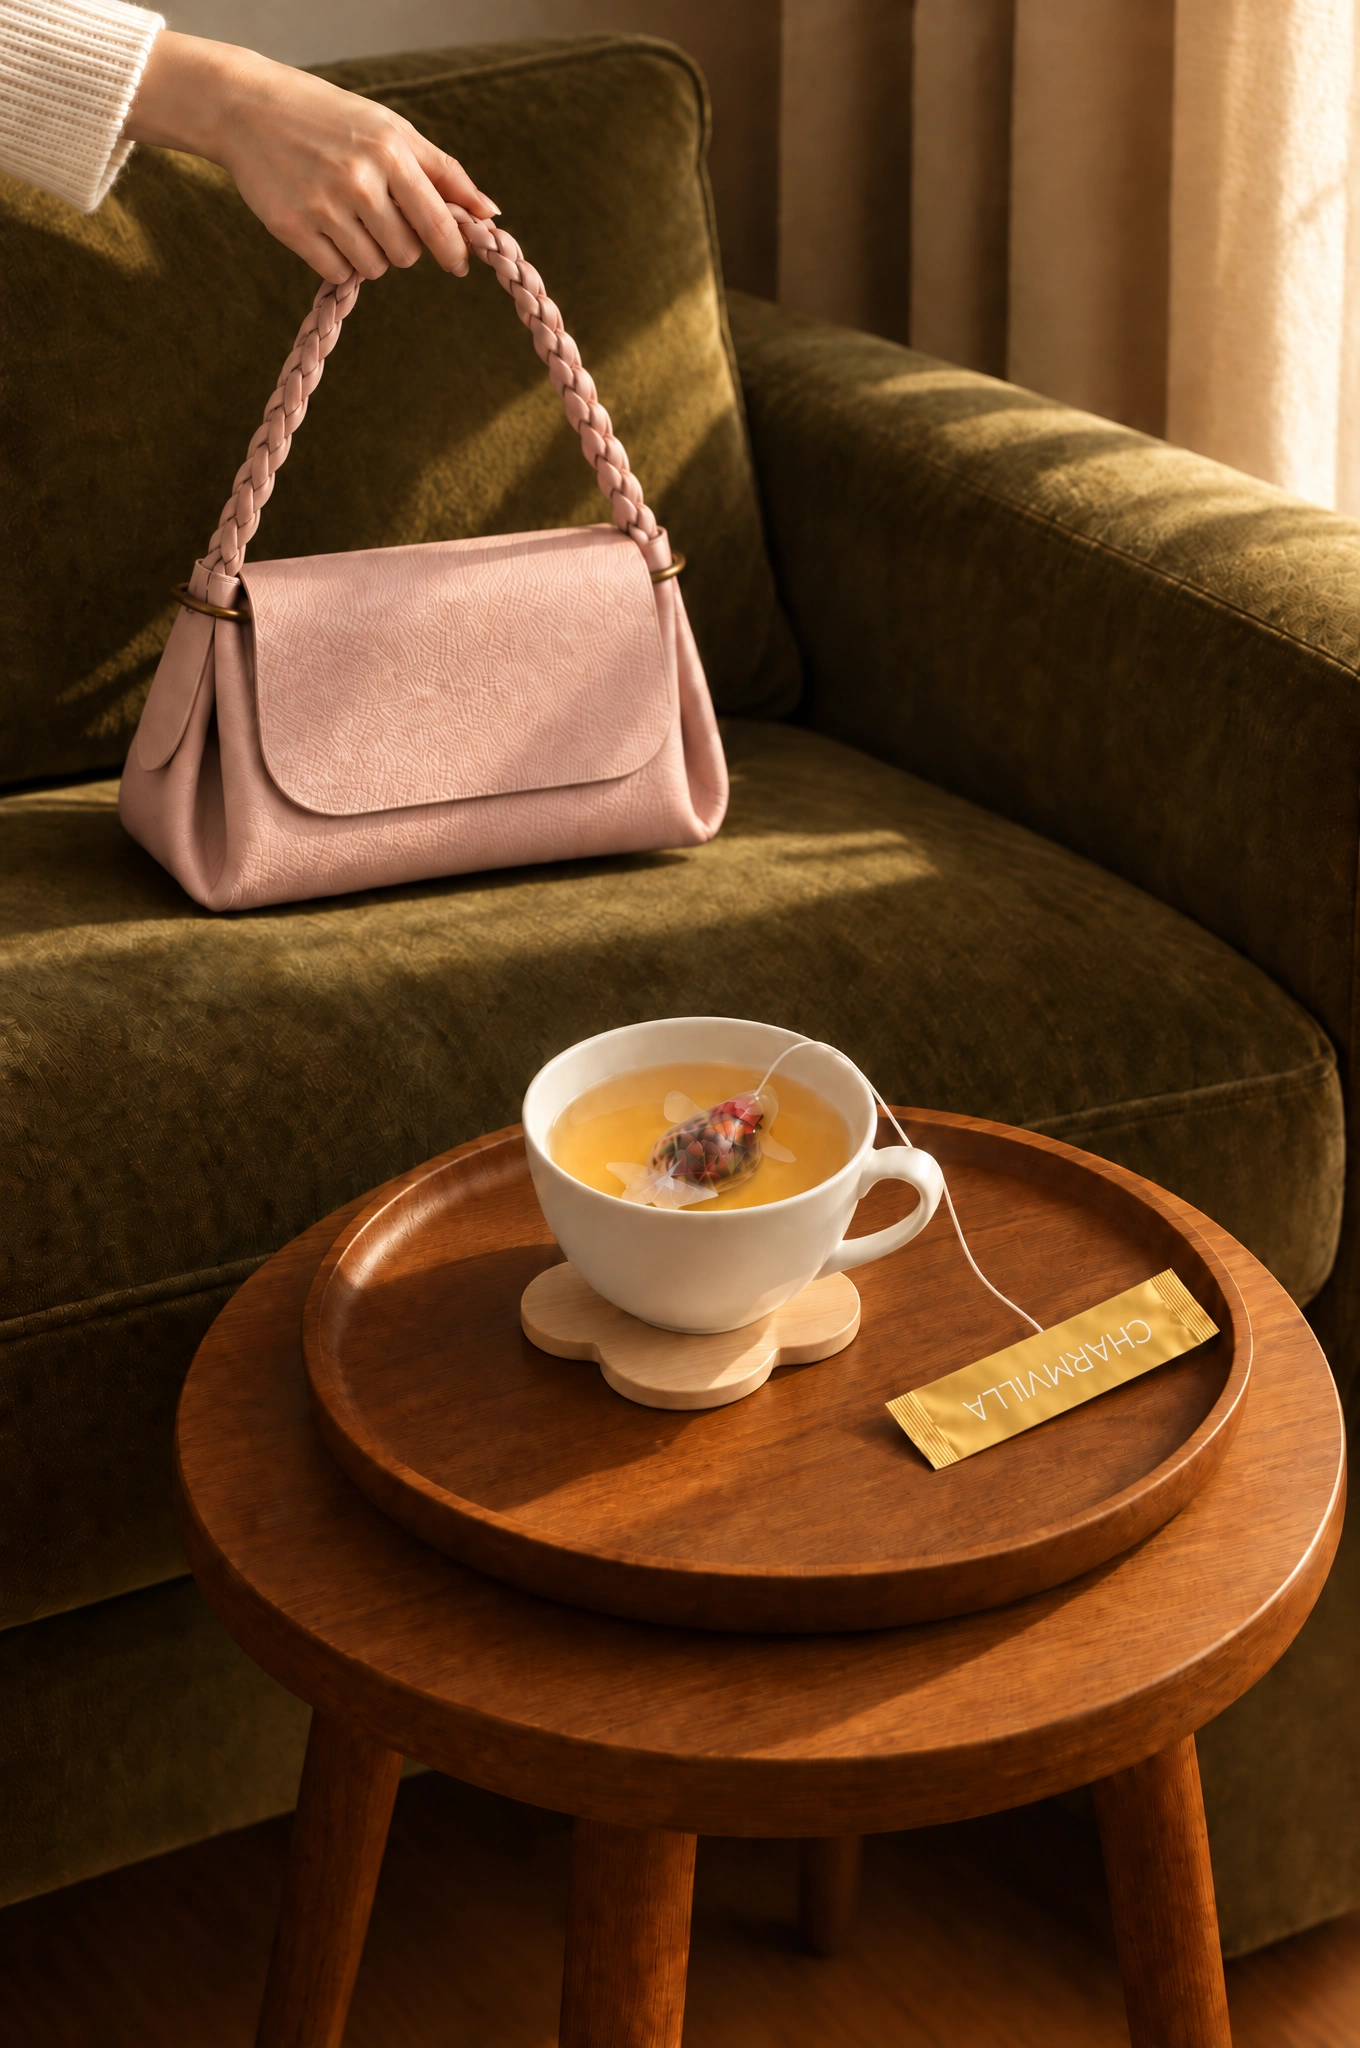
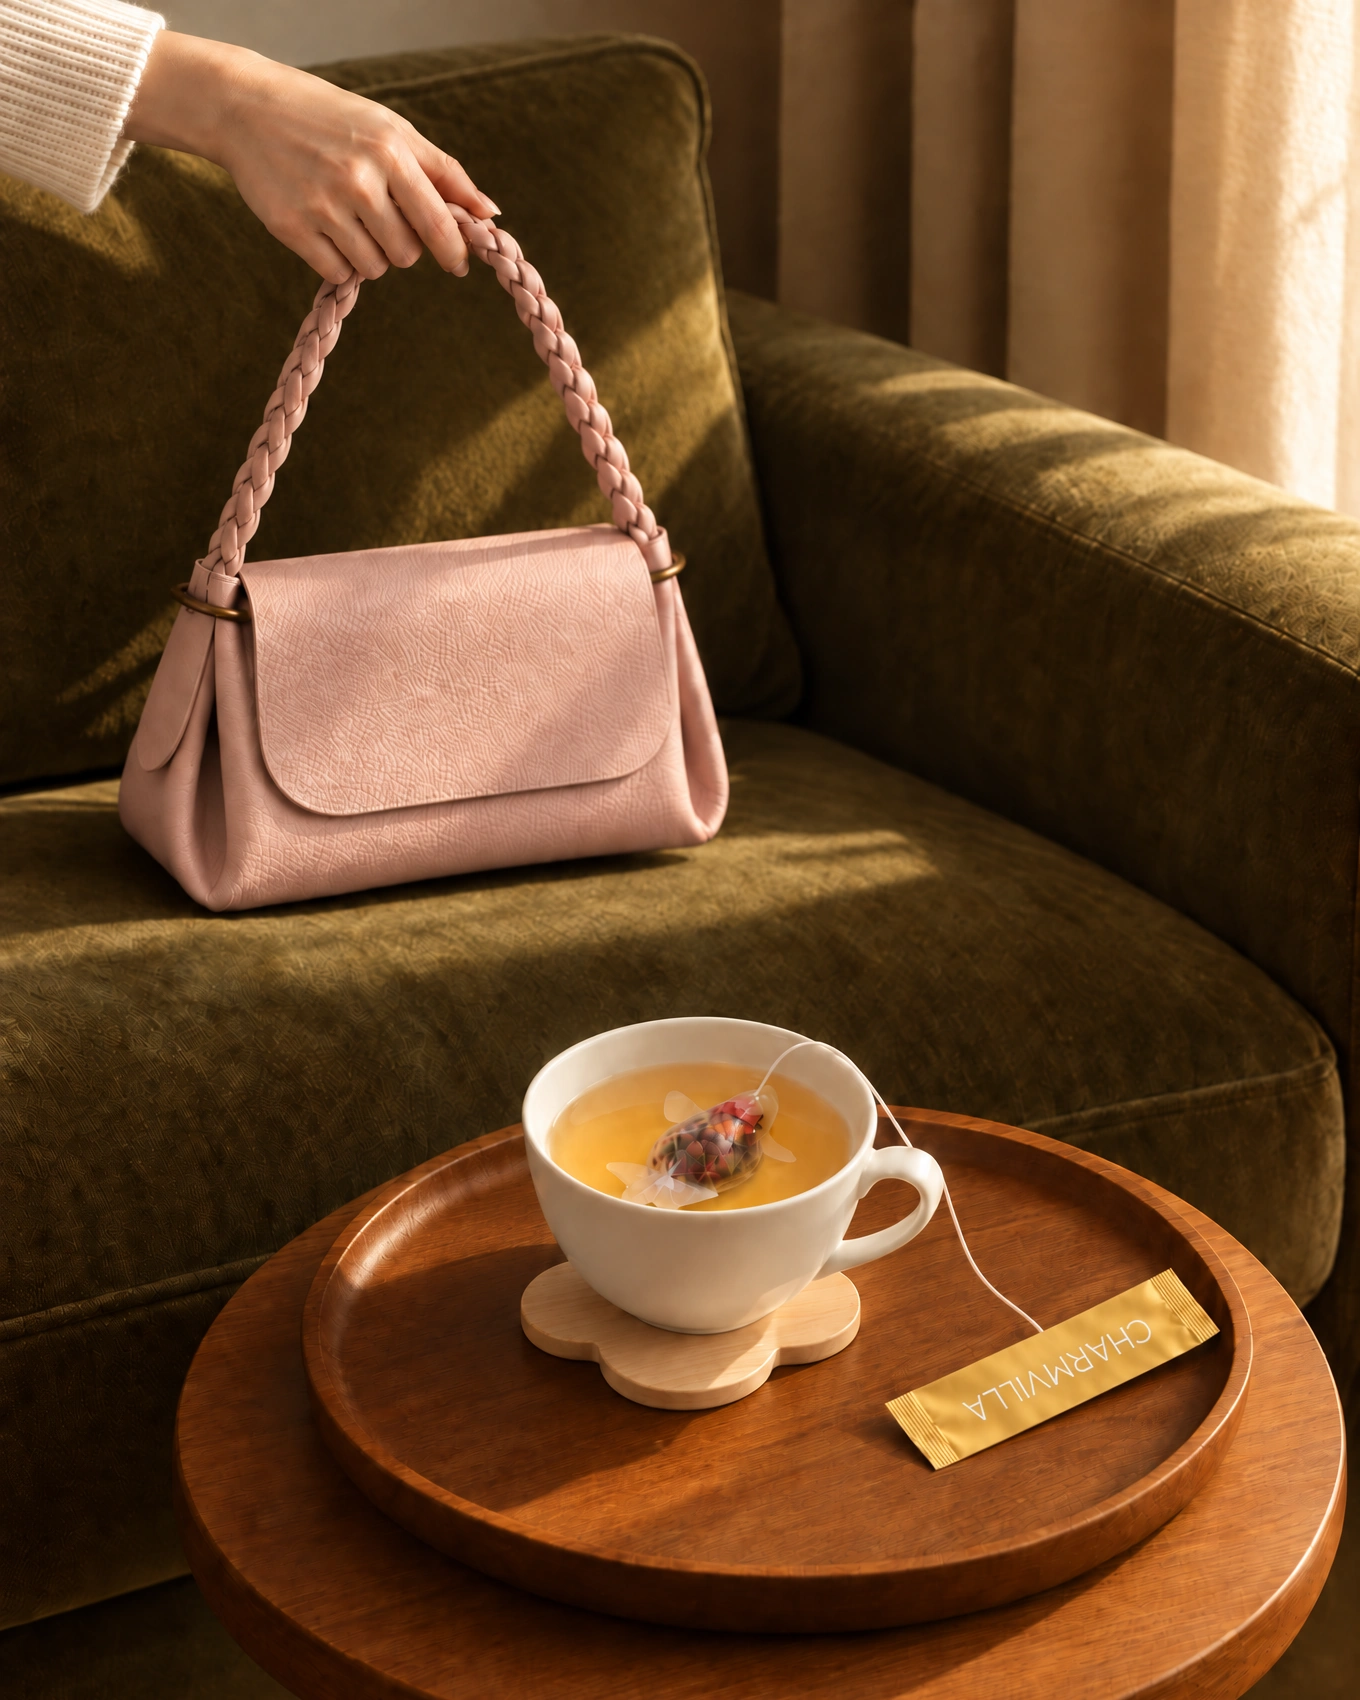
粉紅包頁小圖：切掉下面桌腳，保留上面完整的手（4:5）

diff --git a/src/data/catalog.ts b/src/data/catalog.ts
@@ -311,7 +311,7 @@ const buildCatalog = (lang: Locale) => {
   // 參考 9 張包款廣告照的拍法生成的人物情境照，臉只露到唇下（使用者 2026-10-06：「這2個放上官網商品內容頁」）
   sceneExtra["braided-leather-bag-white"] = [...(sceneExtra["braided-leather-bag-white"] ?? []), site("scene-white-bag-walking-tobacco.webp", t("身穿菸草棕針織衫與寬褲的女子走過米白灰泥牆，手提白色編織提把皮革包，午後陽光把包的影子投在牆上", "A woman in a tobacco-brown knit and wide trousers walks past an off-white plaster wall, the white Braided Leather Bag in her hand, late sun casting its shadow on the wall"), 1792, 2240)];
   // 粉紅包手提行走：象牙白細條紋襯衫與寬褲，參考使用者的手提姿勢（使用者 2026-10-06：「放上官網」）
-  sceneExtra["braided-leather-bag-pink"] = [...(sceneExtra["braided-leather-bag-pink"] ?? []), site("scene-pink-bag-olive-sofa-tea-tray.webp", t("一隻手提著粉紅色編織提把皮革包，斜射的暖陽落在橄欖綠絨布沙發上；前景木邊几的托盤裡，一杯小金魚茶放在雲朵杯墊上，旁邊是 CHARM VILLA 茶標", "A hand holds the pink Braided Leather Bag by its handle in slanting warm sun over an olive velvet sofa; on the tray of the wooden side table in front, a cup of goldfish tea on a cloud coaster beside its CHARM VILLA tag"), 1360, 2048)];
+  sceneExtra["braided-leather-bag-pink"] = [...(sceneExtra["braided-leather-bag-pink"] ?? []), site("scene-pink-bag-olive-sofa-tea-tray.webp", t("一隻手提著粉紅色編織提把皮革包，斜射的暖陽落在橄欖綠絨布沙發上；前景木邊几的托盤裡，一杯小金魚茶放在雲朵杯墊上，旁邊是 CHARM VILLA 茶標", "A hand holds the pink Braided Leather Bag by its handle in slanting warm sun over an olive velvet sofa; on the tray of the wooden side table in front, a cup of goldfish tea on a cloud coaster beside its CHARM VILLA tag"), 1360, 1700)];
   // 藍包肩背近拍：暖灰羊毛西裝配象牙白絲質圍巾，斜射陽光切過包蓋（使用者 2026-10-06）
   sceneExtra["braided-leather-bag-blue"] = [...(sceneExtra["braided-leather-bag-blue"] ?? []), site("scene-blue-bag-shoulder-taupe-blazer-wide.webp", t("暖灰色寬肩羊毛西裝外套與象牙白絲質圍巾的女子側身站立，土耳其藍色編織提把皮革包背在肩上、貼著身側，斜射的陽光灑在淡紫灰的牆面上", "A woman in a taupe oversized wool blazer and an ivory silk scarf stands in profile, the turquoise Braided Leather Bag on her shoulder, slanting sun across a pale mauve wall"), 1520, 2688)];
   // 藍色包放在橄欖綠扶手椅上的客廳，橘色系的畫、藤編茶几（使用者 2026-10-06：「放進商品內容頁（要大張）」）
